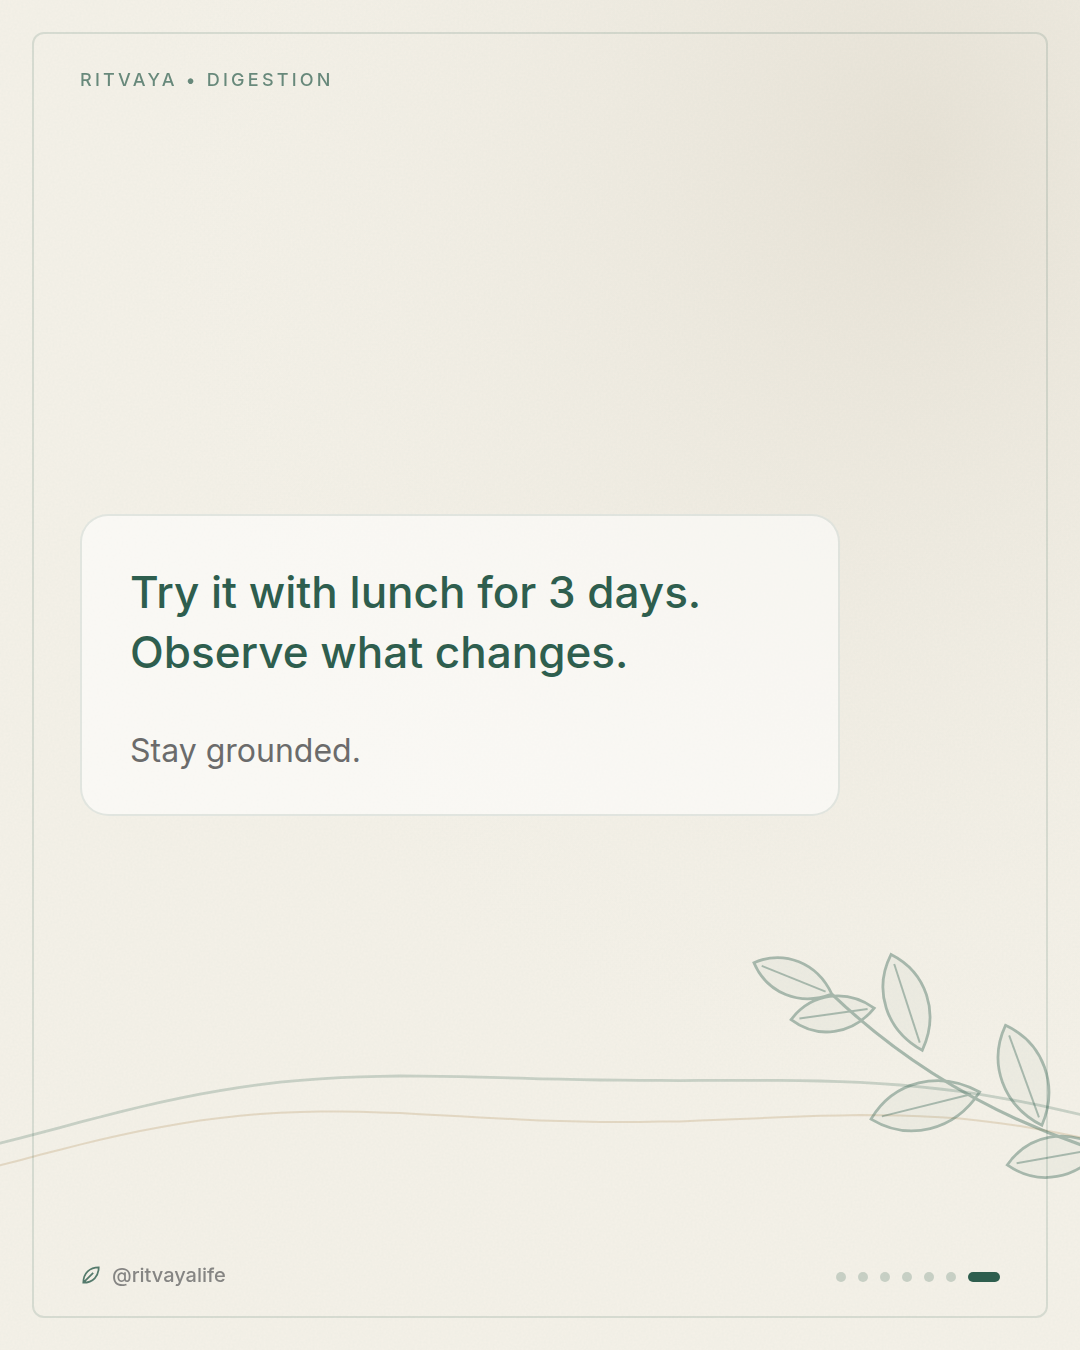
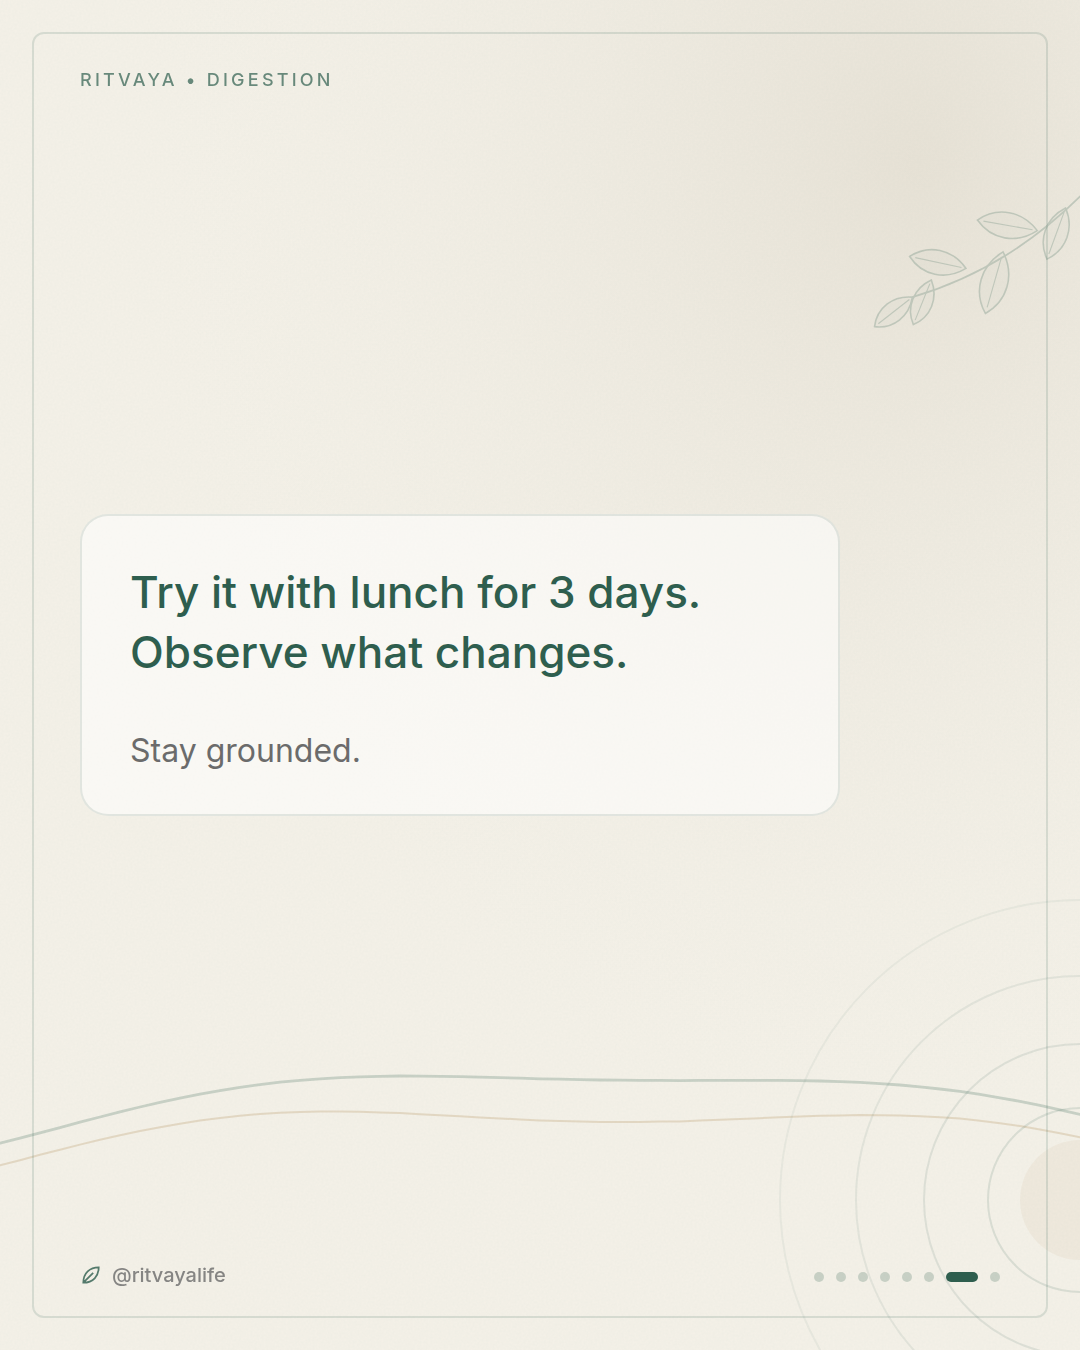
Add Save / Share / Follow call-to-action slide to carousels
Claude-Session: https://claude.ai/code/session_019TF3rT6Ca2FqNDC5GM28mb

diff --git a/carousel/README.md b/carousel/README.md
@@ -6,7 +6,7 @@ motif, and a rhythm line + rings that flow continuously from one slide into the 
 
 ## Download ready-made slides
 
-Finished slides live in `output/<carousel>/01.png … 07.png`. Upload them to Instagram in
+Finished slides live in `output/<carousel>/01.png … 08.png`. Upload them to Instagram in
 number order.
 
 ## Make a new carousel
@@ -31,7 +31,8 @@ number order.
 | `flows` | `[["cause", "step", "effect"], …]` arrow chains |
 | `list` | numbered steps (01 / 02 / 03) |
 | `statement` | large insight text; wrap one phrase in `<span class="accent">` for gold |
-| `cta`, `signoff` | final slide |
+| `cta`, `signoff` | action slide (try-this step) |
+| `engage`, `follow` | closing Save / Share / Follow slide: `[["save"|"share"|"follow", "Title", "line"], …]` + gold button text |
 | `foot` | small footnote (e.g. "Modern lens: …") |
 
 Fonts: Inter and Inter Tight (SIL Open Font License), bundled in `fonts/`.
